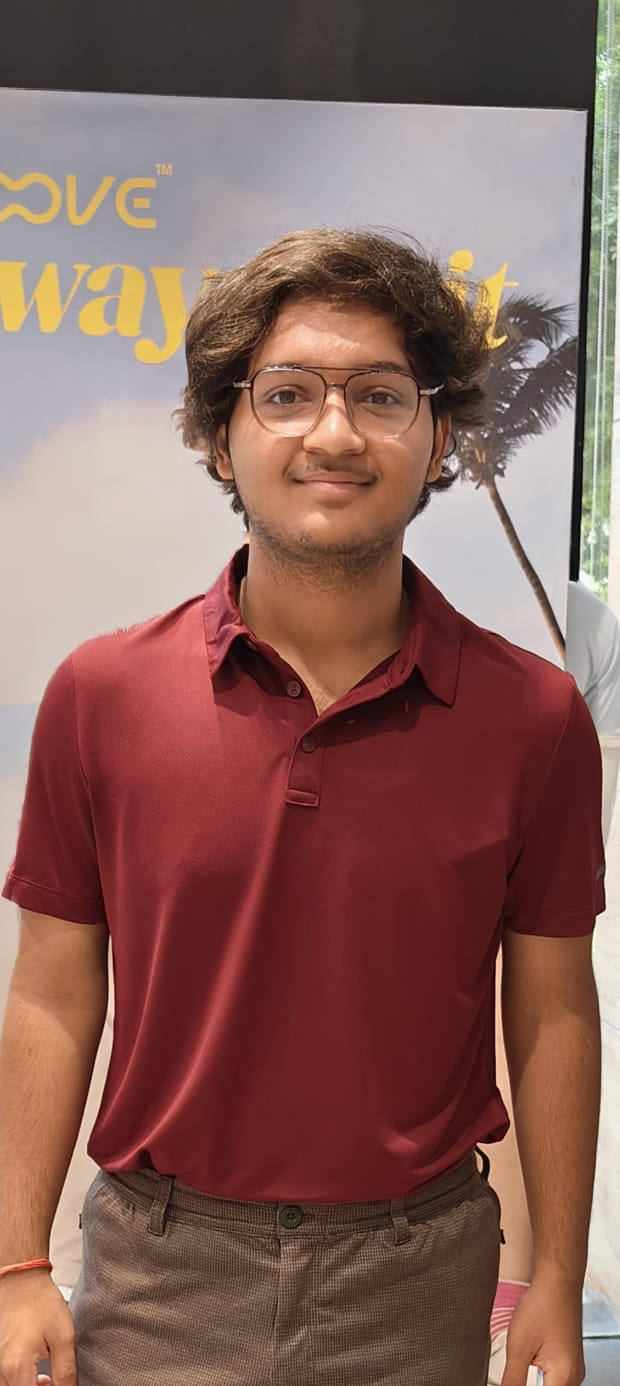
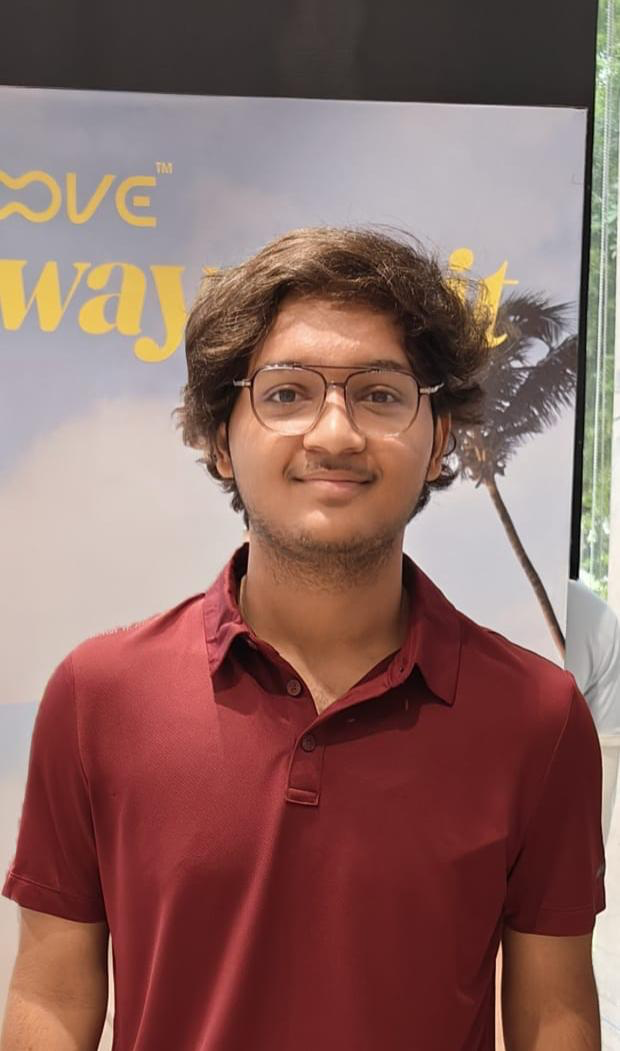
Edit team details

diff --git a/client/src/components/sections/MeetTheTeam.tsx b/client/src/components/sections/MeetTheTeam.tsx
@@ -16,6 +16,7 @@ type TeamMember = {
   linkedin: string;
   role?: string;
   quote?: string;
+  photoUrl?: string;
 };
 
 const team: TeamMember[] = [
@@ -91,6 +92,16 @@ const team: TeamMember[] = [
     github: '',
     linkedin: 'https://www.linkedin.com/in/shubham-singh-bb9146316/',
   },
+  {
+    name: 'Shlok',
+    avatar: 'SH',
+    avatarBg: 'bg-indigo-500/20 border-indigo-500/30',
+    hoverBorder: 'hover:border-indigo-500/30',
+    gradientFrom: 'from-indigo-500/15',
+    github: '',
+    linkedin: '',
+    photoUrl: '/team_members/shlok.png',
+  },
 ];
 
 export default function MeetTheTeam() {
@@ -144,10 +155,14 @@ export default function MeetTheTeam() {
                   <div className="relative z-10">
                     {/* Avatar */}
                     <div 
-                      className="w-16 h-16 rounded-2xl border border-white/20 flex items-center justify-center mb-5 font-mono font-bold text-xl text-white group-hover:scale-105 transition-transform duration-300"
+                      className="w-16 h-16 rounded-2xl border border-white/20 flex items-center justify-center mb-5 font-mono font-bold text-xl text-white group-hover:scale-105 transition-transform duration-300 overflow-hidden"
                       style={{ background: 'linear-gradient(135deg, #F2994A, #F0405C)' }}
                     >
-                      {member.avatar}
+                      {member.photoUrl ? (
+                        <img src={member.photoUrl} alt={member.name} className="w-full h-full object-cover" />
+                      ) : (
+                        member.avatar
+                      )}
                     </div>
 
                     <div className="mb-4">

diff --git a/client/src/pages/MeetTheTeam.tsx b/client/src/pages/MeetTheTeam.tsx
@@ -31,7 +31,7 @@ const teamMembers = [
   { name: 'Saarvik Singh Suryavanshi', email: 'saarvikxcode@gmail.com',                linkedin: 'https://www.linkedin.com/in/saarvik-singh-suryavanshi-94315b36a',                                                        github: 'https://github.com/Saarvik-got-it', image: '/team_members/saarvik.png' },
   { name: 'Sahil Kumar',               email: 'sahil7667790514@gmail.com',              linkedin: 'https://www.linkedin.com/in/76sahil',                                                                                    github: 'https://github.com/2025ucp1686-sudo', image: '/team_members/sahil.png' },
   { name: 'Siddharth Kumar',           email: 'siddjon07@gmail.com',                   linkedin: 'https://www.linkedin.com/in/siddharth-kumar-174738381/',                                                                  github: 'https://github.com/siddjon07-ctrl', image: '/team_members/siddharth.png' },
-  { name: 'Shlok Patel',              email: 'shlokpatel2400@gmail.com',               linkedin: 'https://www.linkedin.com/in/shlok-patel-b36802396/',                                                            github: '', image: '' },
+  { name: 'Shlok Patel',              email: 'shlokpatel2400@gmail.com',               linkedin: 'https://www.linkedin.com/in/shlok-patel-b36802396/',                                                            github: '', image: '/team_members/shlok.png' },
 ];
 
 /* ── Heading style (32px gradient) ─────────────────────────── */
